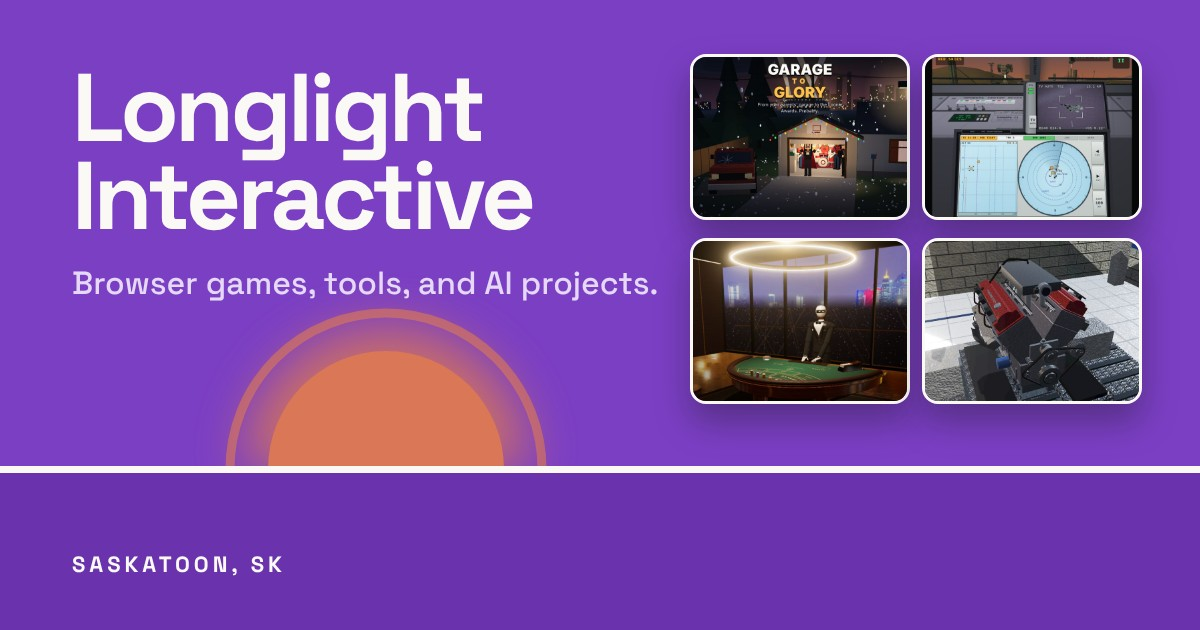
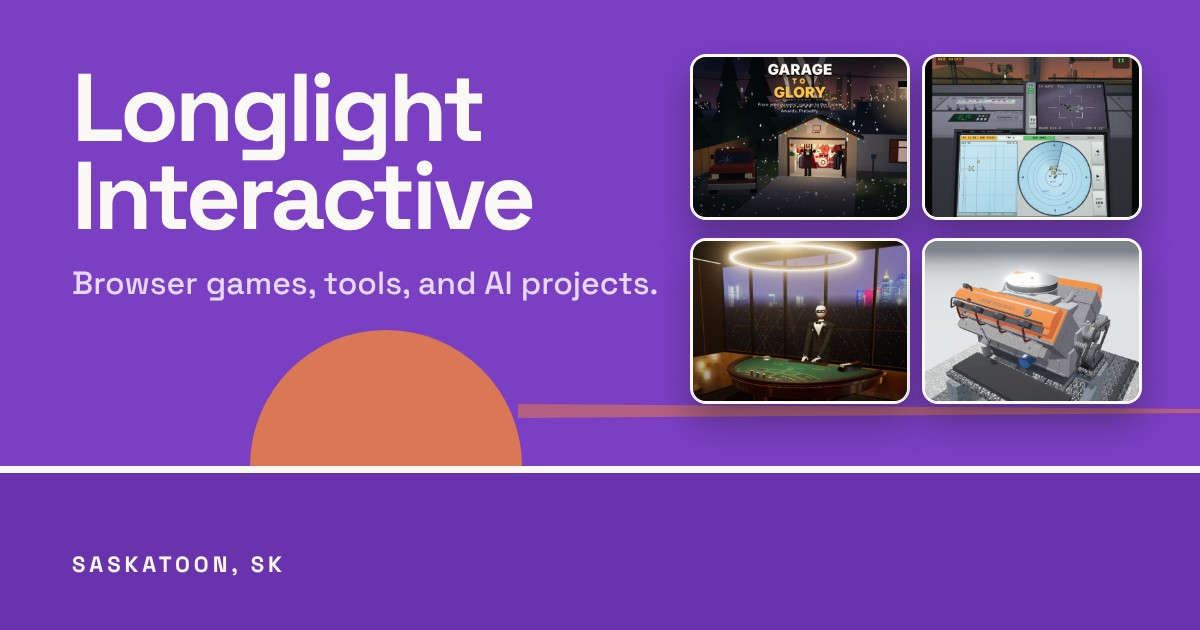
New covers for Season Ticket and Prairie Engine Works (#75)
Season Ticket now shows the 3D Office with the sunset window. Prairie
Engine Works uses the game's studio render of the Chevrolet 350, which
has no clipping. The link preview is regenerated with the new engine
and its og:image bumped to ?v=3.

Claude-Session: https://claude.ai/code/session_016QaTkMKy8nw5ihBrZfYzcJ

Changed region(s): [[0.185, 0.3619, 1.0, 0.754]]

diff --git a/tools/prediction-tracker/index.html b/tools/prediction-tracker/index.html
@@ -14,7 +14,7 @@
   <meta property="og:title" content="Prediction Tracker · Longlight Interactive">
   <meta property="og:description" content="Log predictions with how sure you are, grade them later, and see how well-calibrated your calls really are. Everything stays on your own device.">
   <meta property="og:url" content="https://jxstrr0.github.io/Kelbo.Website/tools/prediction-tracker/">
-  <meta property="og:image" content="https://jxstrr0.github.io/Kelbo.Website/assets/social-preview.jpg?v=2">
+  <meta property="og:image" content="https://jxstrr0.github.io/Kelbo.Website/assets/social-preview.jpg?v=3">
   <meta property="og:image:width" content="1200">
   <meta property="og:image:height" content="630">
   <meta property="og:image:alt" content="The Longlight Interactive sun over a purple horizon, beside screenshots of four of its games.">

diff --git a/agent-fleet.html b/agent-fleet.html
@@ -14,7 +14,7 @@
   <meta property="og:title" content="Agent Fleet · Longlight Interactive">
   <meta property="og:description" content="A growing set of small, single-purpose bots I can run from my phone, like news digests, trackers, and weekly scans.">
   <meta property="og:url" content="https://jxstrr0.github.io/Kelbo.Website/agent-fleet.html">
-  <meta property="og:image" content="https://jxstrr0.github.io/Kelbo.Website/assets/social-preview.jpg?v=2">
+  <meta property="og:image" content="https://jxstrr0.github.io/Kelbo.Website/assets/social-preview.jpg?v=3">
   <meta property="og:image:width" content="1200">
   <meta property="og:image:height" content="630">
   <meta property="og:image:alt" content="The Longlight Interactive sun over a purple horizon, beside screenshots of four of its games.">

diff --git a/journal.html b/journal.html
@@ -14,7 +14,7 @@
   <meta property="og:title" content="AI Trading Journal · Longlight Interactive">
   <meta property="og:description" content="Kelbo's trading journal: his market views, his trades, and his running record, with notes from an AI coach.">
   <meta property="og:url" content="https://jxstrr0.github.io/Kelbo.Website/journal.html">
-  <meta property="og:image" content="https://jxstrr0.github.io/Kelbo.Website/assets/social-preview.jpg?v=2">
+  <meta property="og:image" content="https://jxstrr0.github.io/Kelbo.Website/assets/social-preview.jpg?v=3">
   <meta property="og:image:width" content="1200">
   <meta property="og:image:height" content="630">
   <meta property="og:image:alt" content="The Longlight Interactive sun over a purple horizon, beside screenshots of four of its games.">

diff --git a/games.html b/games.html
@@ -14,7 +14,7 @@
   <meta property="og:title" content="Games · Longlight Interactive">
   <meta property="og:description" content="Browser games from Longlight Interactive. Play them on your phone or computer, or look at the code.">
   <meta property="og:url" content="https://jxstrr0.github.io/Kelbo.Website/games.html">
-  <meta property="og:image" content="https://jxstrr0.github.io/Kelbo.Website/assets/social-preview.jpg?v=2">
+  <meta property="og:image" content="https://jxstrr0.github.io/Kelbo.Website/assets/social-preview.jpg?v=3">
   <meta property="og:image:width" content="1200">
   <meta property="og:image:height" content="630">
   <meta property="og:image:alt" content="The Longlight Interactive sun over a purple horizon, beside screenshots of four of its games.">

diff --git a/projects.html b/projects.html
@@ -14,7 +14,7 @@
   <meta property="og:title" content="Projects · Longlight Interactive">
   <meta property="og:description" content="Games, tools, and AI projects from Longlight Interactive, from planned to shipped.">
   <meta property="og:url" content="https://jxstrr0.github.io/Kelbo.Website/projects.html">
-  <meta property="og:image" content="https://jxstrr0.github.io/Kelbo.Website/assets/social-preview.jpg?v=2">
+  <meta property="og:image" content="https://jxstrr0.github.io/Kelbo.Website/assets/social-preview.jpg?v=3">
   <meta property="og:image:width" content="1200">
   <meta property="og:image:height" content="630">
   <meta property="og:image:alt" content="The Longlight Interactive sun over a purple horizon, beside screenshots of four of its games.">

diff --git a/about.html b/about.html
@@ -14,7 +14,7 @@
   <meta property="og:title" content="About · Longlight Interactive">
   <meta property="og:description" content="About Kelbo, the person behind Longlight Interactive, based in Saskatoon, Saskatchewan.">
   <meta property="og:url" content="https://jxstrr0.github.io/Kelbo.Website/about.html">
-  <meta property="og:image" content="https://jxstrr0.github.io/Kelbo.Website/assets/social-preview.jpg?v=2">
+  <meta property="og:image" content="https://jxstrr0.github.io/Kelbo.Website/assets/social-preview.jpg?v=3">
   <meta property="og:image:width" content="1200">
   <meta property="og:image:height" content="630">
   <meta property="og:image:alt" content="The Longlight Interactive sun over a purple horizon, beside screenshots of four of its games.">

diff --git a/trading.html b/trading.html
@@ -14,7 +14,7 @@
   <meta property="og:title" content="Trading · Longlight Interactive">
   <meta property="og:description" content="Kelbo's trading journal and the tools he builds for his own trading day.">
   <meta property="og:url" content="https://jxstrr0.github.io/Kelbo.Website/trading.html">
-  <meta property="og:image" content="https://jxstrr0.github.io/Kelbo.Website/assets/social-preview.jpg?v=2">
+  <meta property="og:image" content="https://jxstrr0.github.io/Kelbo.Website/assets/social-preview.jpg?v=3">
   <meta property="og:image:width" content="1200">
   <meta property="og:image:height" content="630">
   <meta property="og:image:alt" content="The Longlight Interactive sun over a purple horizon, beside screenshots of four of its games.">

diff --git a/index.html b/index.html
@@ -14,7 +14,7 @@
   <meta property="og:title" content="Longlight Interactive">
   <meta property="og:description" content="Longlight Interactive makes browser games, tools, and AI projects in Saskatoon, Saskatchewan.">
   <meta property="og:url" content="https://jxstrr0.github.io/Kelbo.Website/">
-  <meta property="og:image" content="https://jxstrr0.github.io/Kelbo.Website/assets/social-preview.jpg?v=2">
+  <meta property="og:image" content="https://jxstrr0.github.io/Kelbo.Website/assets/social-preview.jpg?v=3">
   <meta property="og:image:width" content="1200">
   <meta property="og:image:height" content="630">
   <meta property="og:image:alt" content="The Longlight Interactive sun over a purple horizon, beside screenshots of four of its games.">

diff --git a/ai.html b/ai.html
@@ -14,7 +14,7 @@
   <meta property="og:title" content="AI · Longlight Interactive">
   <meta property="og:description" content="AI projects and small bots from Longlight Interactive.">
   <meta property="og:url" content="https://jxstrr0.github.io/Kelbo.Website/ai.html">
-  <meta property="og:image" content="https://jxstrr0.github.io/Kelbo.Website/assets/social-preview.jpg?v=2">
+  <meta property="og:image" content="https://jxstrr0.github.io/Kelbo.Website/assets/social-preview.jpg?v=3">
   <meta property="og:image:width" content="1200">
   <meta property="og:image:height" content="630">
   <meta property="og:image:alt" content="The Longlight Interactive sun over a purple horizon, beside screenshots of four of its games.">

diff --git a/CLAUDE.md b/CLAUDE.md
@@ -49,7 +49,7 @@ Live at https://jxstrr0.github.io/Kelbo.Website/
 - The link preview image is `assets/social-preview.jpg` (1200×630, the
   Longlight sky, the sun with its glow and halo on the horizon line,
   "Longlight Interactive", plus the four game covers). Every `og:image`
-  ends `?v=2` so apps refetch it; bump it on every page when the picture
+  ends `?v=3` so apps refetch it; bump it on every page when the picture
   changes. Regenerate it if the covers change a lot. The favicon and
   home-screen icons are the logo's sun (glow, halo, sun) on an ivory line
   on a purple tile (the favicon turns slate in dark mode):
@@ -80,7 +80,11 @@ Live at https://jxstrr0.github.io/Kelbo.Website/
   = slate. Clay text on the purple sky is too faint, so keep clay for the
   sun, buttons and underlines there. Game covers live in `assets/covers/`
   (640×480 JPG, captured from each live game; Red Skies is portrait-only, so
-  it's shot at 600px wide mid-shift with a jet on the TV camera, cropped 4:3).
+  it's shot at 600px wide mid-shift with a jet on the TV camera, cropped 4:3;
+  Prairie Engine Works is the Chevrolet 350 from the game's own studio render,
+  `ENGINE_VIS.photoShot(1280, 960)`, so no stray parts show; Season Ticket is
+  the 3D Office at a wide view, cropped 4:3 from the left to keep the sunset
+  window).
 - The live horizon (`[data-horizon]` in the home hero, every page head and
   the 404) puts the sun where the real sun is over Saskatoon (`YXE` in
   `main.js`, no network; only the optional weather and aurora fetch), switches to the dark theme at real sunset, and

diff --git a/README.md b/README.md
@@ -187,8 +187,8 @@ borrows it, so leave that `<defs>` block in the footer.
 When someone shares a link to the site in a text, Discord, or X, the app
 shows a preview card. That card is `assets/social-preview.jpg` (1200×630).
 It shows the sun with the same glow and halo as the logo. To change it,
-upload a new picture with the same name and size, then bump the `?v=2` on
-the end of every page's `og:image` line (to `?v=3`) so apps fetch the new
+upload a new picture with the same name and size, then bump the `?v=3` on
+the end of every page's `og:image` line (to `?v=4`) so apps fetch the new
 one. Apps remember old previews for a while, so a change can still take a
 day or so to show up when you share the link.
 
